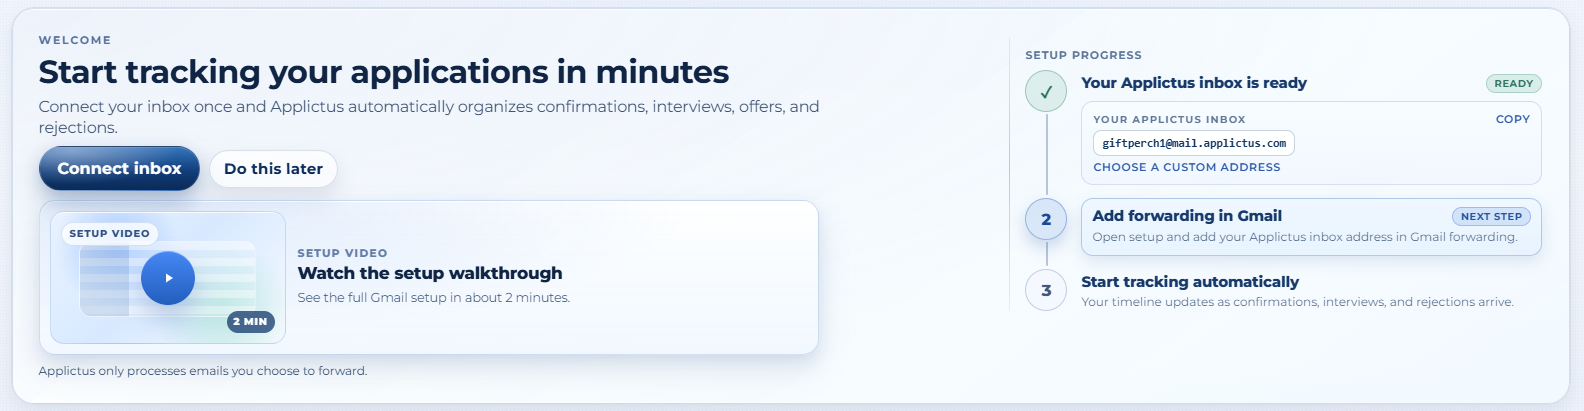
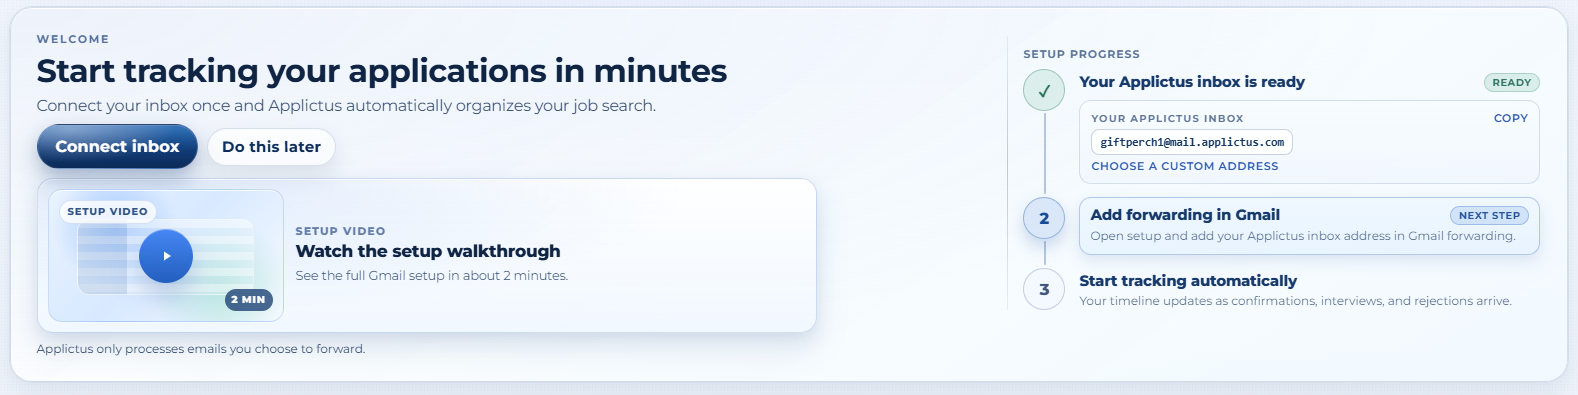
Refactored onboarding component

diff --git a/public/styles.css b/public/styles.css
@@ -14839,10 +14839,12 @@ body.app-page-bg .topbar .nav-link.active {
 }
 
 #dashboard-view .dashboard-onboarding {
+  --dashboard-onboarding-column-gap: clamp(24px, 2.2vw, 34px);
+  --dashboard-step-gap: clamp(16px, 1.35vw, 21px);
   display: none;
-  grid-template-columns: minmax(0, 1.78fr) minmax(360px, 1fr);
+  grid-template-columns: minmax(0, 1.5fr) minmax(420px, 1fr);
   align-items: start;
-  gap: clamp(14px, 1.55vw, 22px);
+  gap: var(--dashboard-onboarding-column-gap);
   padding: clamp(18px, 1.8vw, 24px) clamp(20px, 2.2vw, 26px);
   border-radius: 22px;
   border: 1px solid rgba(34, 73, 134, 0.16);
@@ -14877,7 +14879,7 @@ body.app-page-bg .topbar .nav-link.active {
   letter-spacing: -0.02em;
   color: #102544;
   font-weight: 700;
-  max-width: 820px;
+  max-width: 900px;
 }
 
 #dashboard-view .dashboard-onboarding__text {
@@ -14885,7 +14887,7 @@ body.app-page-bg .topbar .nav-link.active {
   color: rgba(22, 49, 86, 0.82);
   font-size: clamp(14px, 0.9vw, 15.5px);
   line-height: 1.36;
-  max-width: 840px;
+  max-width: 900px;
 }
 
 #dashboard-view .dashboard-onboarding__reassurance {
@@ -14972,7 +14974,7 @@ body.app-page-bg .topbar .nav-link.active {
 #dashboard-view .dashboard-onboarding-video {
   appearance: none;
   -webkit-appearance: none;
-  width: min(100%, 780px);
+  width: min(100%, 860px);
   display: grid;
   grid-template-columns: minmax(218px, 236px) minmax(0, 1fr);
   align-items: center;
@@ -15147,17 +15149,19 @@ body.app-page-bg .topbar .nav-link.active {
 #dashboard-view .dashboard-onboarding__steps {
   position: relative;
   display: grid;
+  align-self: stretch;
   align-content: start;
+  grid-template-rows: auto minmax(0, 1fr);
   gap: 8px;
-  padding: clamp(8px, 1.2vw, 16px) 0 4px 16px;
+  padding: clamp(2px, 0.45vw, 6px) 0 4px clamp(18px, 1.7vw, 24px);
 }
 
 #dashboard-view .dashboard-onboarding__steps::before {
   content: '';
   position: absolute;
-  left: 0;
-  top: 4px;
-  bottom: 4px;
+  left: calc(var(--dashboard-onboarding-column-gap) / -2);
+  top: 0;
+  bottom: 0;
   width: 1px;
   background: linear-gradient(
     180deg,
@@ -15170,7 +15174,7 @@ body.app-page-bg .topbar .nav-link.active {
 
 #dashboard-view .dashboard-onboarding__steps-heading {
   margin: 0;
-  font-size: 10.5px;
+  font-size: 11px;
   letter-spacing: 0.12em;
   text-transform: uppercase;
   color: rgba(35, 66, 112, 0.72);
@@ -15182,18 +15186,18 @@ body.app-page-bg .topbar .nav-link.active {
   padding: 0;
   list-style: none;
   display: grid;
-  gap: 13px;
+  gap: var(--dashboard-step-gap);
 }
 
 #dashboard-view .dashboard-stepper__step {
   position: relative;
   display: grid;
-  grid-template-columns: 44px minmax(0, 1fr);
+  grid-template-columns: 48px minmax(0, 1fr);
   gap: 12px;
 }
 
 #dashboard-view .dashboard-stepper__step.is-next .dashboard-stepper__body {
-  padding: 8px 10px 10px;
+  padding: 10px 12px 11px;
   border-radius: 12px;
   border: 1px solid rgba(26, 83, 174, 0.28);
   background: linear-gradient(180deg, rgba(239, 247, 255, 0.94), rgba(231, 243, 255, 0.9));
@@ -15203,9 +15207,9 @@ body.app-page-bg .topbar .nav-link.active {
 #dashboard-view .dashboard-stepper__step:not(:last-child)::after {
   content: '';
   position: absolute;
-  left: 21px;
-  top: 44px;
-  bottom: -10px;
+  left: 23px;
+  top: 48px;
+  bottom: calc((var(--dashboard-step-gap) * -1) + 3px);
   width: 2px;
   border-radius: 999px;
   background: rgba(42, 83, 145, 0.32);
@@ -15215,13 +15219,13 @@ body.app-page-bg .topbar .nav-link.active {
   display: inline-flex;
   align-items: center;
   justify-content: center;
-  width: 42px;
-  height: 42px;
+  width: 46px;
+  height: 46px;
   border-radius: 999px;
   border: 1px solid rgba(36, 77, 139, 0.24);
   background: rgba(244, 249, 255, 0.95);
   color: rgba(24, 53, 95, 0.82);
-  font-size: 16px;
+  font-size: 17px;
   font-weight: 800;
   font-variant-numeric: tabular-nums;
 }
@@ -15280,7 +15284,7 @@ body.app-page-bg .topbar .nav-link.active {
 #dashboard-view .dashboard-stepper__title {
   margin: 0;
   color: #173a6a;
-  font-size: 14.5px;
+  font-size: 15px;
   font-weight: 750;
   line-height: 1.25;
 }
@@ -15288,14 +15292,14 @@ body.app-page-bg .topbar .nav-link.active {
 #dashboard-view .dashboard-stepper__body p {
   margin: 3px 0 0;
   color: rgba(24, 52, 92, 0.72);
-  font-size: 12px;
+  font-size: 12.3px;
   line-height: 1.35;
   max-width: none;
 }
 
 #dashboard-view .dashboard-onboarding-inbox-preview {
   margin-top: 8px;
-  padding: 10px 11px;
+  padding: 11px 12px;
   border-radius: 12px;
   border: 1px solid rgba(38, 76, 136, 0.16);
   background: linear-gradient(180deg, rgba(248, 252, 255, 0.94), rgba(241, 247, 255, 0.9));

diff --git a/web/styles.css b/web/styles.css
@@ -14839,10 +14839,12 @@ body.app-page-bg .topbar .nav-link.active {
 }
 
 #dashboard-view .dashboard-onboarding {
+  --dashboard-onboarding-column-gap: clamp(24px, 2.2vw, 34px);
+  --dashboard-step-gap: clamp(16px, 1.35vw, 21px);
   display: none;
-  grid-template-columns: minmax(0, 1.78fr) minmax(360px, 1fr);
+  grid-template-columns: minmax(0, 1.5fr) minmax(420px, 1fr);
   align-items: start;
-  gap: clamp(14px, 1.55vw, 22px);
+  gap: var(--dashboard-onboarding-column-gap);
   padding: clamp(18px, 1.8vw, 24px) clamp(20px, 2.2vw, 26px);
   border-radius: 22px;
   border: 1px solid rgba(34, 73, 134, 0.16);
@@ -14877,7 +14879,7 @@ body.app-page-bg .topbar .nav-link.active {
   letter-spacing: -0.02em;
   color: #102544;
   font-weight: 700;
-  max-width: 820px;
+  max-width: 900px;
 }
 
 #dashboard-view .dashboard-onboarding__text {
@@ -14885,7 +14887,7 @@ body.app-page-bg .topbar .nav-link.active {
   color: rgba(22, 49, 86, 0.82);
   font-size: clamp(14px, 0.9vw, 15.5px);
   line-height: 1.36;
-  max-width: 840px;
+  max-width: 900px;
 }
 
 #dashboard-view .dashboard-onboarding__reassurance {
@@ -14972,7 +14974,7 @@ body.app-page-bg .topbar .nav-link.active {
 #dashboard-view .dashboard-onboarding-video {
   appearance: none;
   -webkit-appearance: none;
-  width: min(100%, 780px);
+  width: min(100%, 860px);
   display: grid;
   grid-template-columns: minmax(218px, 236px) minmax(0, 1fr);
   align-items: center;
@@ -15147,17 +15149,19 @@ body.app-page-bg .topbar .nav-link.active {
 #dashboard-view .dashboard-onboarding__steps {
   position: relative;
   display: grid;
+  align-self: stretch;
   align-content: start;
+  grid-template-rows: auto minmax(0, 1fr);
   gap: 8px;
-  padding: clamp(8px, 1.2vw, 16px) 0 4px 16px;
+  padding: clamp(2px, 0.45vw, 6px) 0 4px clamp(18px, 1.7vw, 24px);
 }
 
 #dashboard-view .dashboard-onboarding__steps::before {
   content: '';
   position: absolute;
-  left: 0;
-  top: 4px;
-  bottom: 4px;
+  left: calc(var(--dashboard-onboarding-column-gap) / -2);
+  top: 0;
+  bottom: 0;
   width: 1px;
   background: linear-gradient(
     180deg,
@@ -15170,7 +15174,7 @@ body.app-page-bg .topbar .nav-link.active {
 
 #dashboard-view .dashboard-onboarding__steps-heading {
   margin: 0;
-  font-size: 10.5px;
+  font-size: 11px;
   letter-spacing: 0.12em;
   text-transform: uppercase;
   color: rgba(35, 66, 112, 0.72);
@@ -15182,18 +15186,18 @@ body.app-page-bg .topbar .nav-link.active {
   padding: 0;
   list-style: none;
   display: grid;
-  gap: 13px;
+  gap: var(--dashboard-step-gap);
 }
 
 #dashboard-view .dashboard-stepper__step {
   position: relative;
   display: grid;
-  grid-template-columns: 44px minmax(0, 1fr);
+  grid-template-columns: 48px minmax(0, 1fr);
   gap: 12px;
 }
 
 #dashboard-view .dashboard-stepper__step.is-next .dashboard-stepper__body {
-  padding: 8px 10px 10px;
+  padding: 10px 12px 11px;
   border-radius: 12px;
   border: 1px solid rgba(26, 83, 174, 0.28);
   background: linear-gradient(180deg, rgba(239, 247, 255, 0.94), rgba(231, 243, 255, 0.9));
@@ -15203,9 +15207,9 @@ body.app-page-bg .topbar .nav-link.active {
 #dashboard-view .dashboard-stepper__step:not(:last-child)::after {
   content: '';
   position: absolute;
-  left: 21px;
-  top: 44px;
-  bottom: -10px;
+  left: 23px;
+  top: 48px;
+  bottom: calc((var(--dashboard-step-gap) * -1) + 3px);
   width: 2px;
   border-radius: 999px;
   background: rgba(42, 83, 145, 0.32);
@@ -15215,13 +15219,13 @@ body.app-page-bg .topbar .nav-link.active {
   display: inline-flex;
   align-items: center;
   justify-content: center;
-  width: 42px;
-  height: 42px;
+  width: 46px;
+  height: 46px;
   border-radius: 999px;
   border: 1px solid rgba(36, 77, 139, 0.24);
   background: rgba(244, 249, 255, 0.95);
   color: rgba(24, 53, 95, 0.82);
-  font-size: 16px;
+  font-size: 17px;
   font-weight: 800;
   font-variant-numeric: tabular-nums;
 }
@@ -15280,7 +15284,7 @@ body.app-page-bg .topbar .nav-link.active {
 #dashboard-view .dashboard-stepper__title {
   margin: 0;
   color: #173a6a;
-  font-size: 14.5px;
+  font-size: 15px;
   font-weight: 750;
   line-height: 1.25;
 }
@@ -15288,14 +15292,14 @@ body.app-page-bg .topbar .nav-link.active {
 #dashboard-view .dashboard-stepper__body p {
   margin: 3px 0 0;
   color: rgba(24, 52, 92, 0.72);
-  font-size: 12px;
+  font-size: 12.3px;
   line-height: 1.35;
   max-width: none;
 }
 
 #dashboard-view .dashboard-onboarding-inbox-preview {
   margin-top: 8px;
-  padding: 10px 11px;
+  padding: 11px 12px;
   border-radius: 12px;
   border: 1px solid rgba(38, 76, 136, 0.16);
   background: linear-gradient(180deg, rgba(248, 252, 255, 0.94), rgba(241, 247, 255, 0.9));

diff --git a/public/app/index.html b/public/app/index.html
@@ -10,7 +10,7 @@
     <meta name="app-api-base-url" content="" />
     <title>Applictus</title>
     <link rel="icon" href="/Applictus_logo.png" type="image/png" />
-    <link rel="stylesheet" href="/styles.css?v=42" />
+    <link rel="stylesheet" href="/styles.css?v=43" />
     <style>
       body:not(.app-ready) #app {
         opacity: 0;

diff --git a/web/app/index.html b/web/app/index.html
@@ -10,7 +10,7 @@
     <meta name="app-api-base-url" content="" />
     <title>Applictus</title>
     <link rel="icon" href="/Applictus_logo.png" type="image/png" />
-    <link rel="stylesheet" href="/styles.css?v=42" />
+    <link rel="stylesheet" href="/styles.css?v=43" />
     <style>
       body:not(.app-ready) #app {
         opacity: 0;
